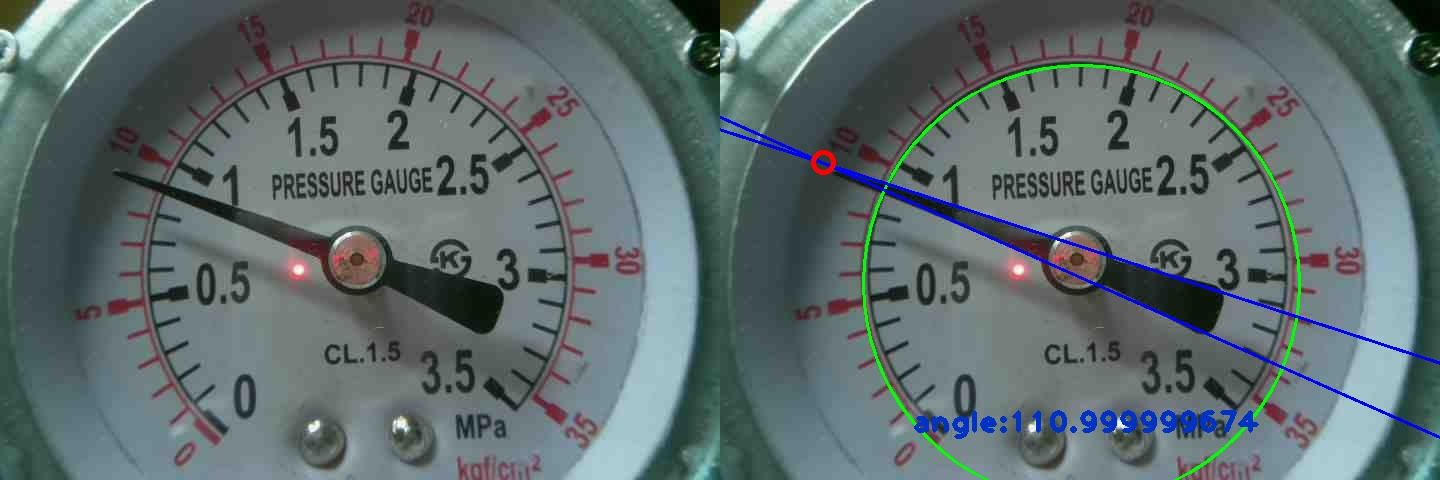
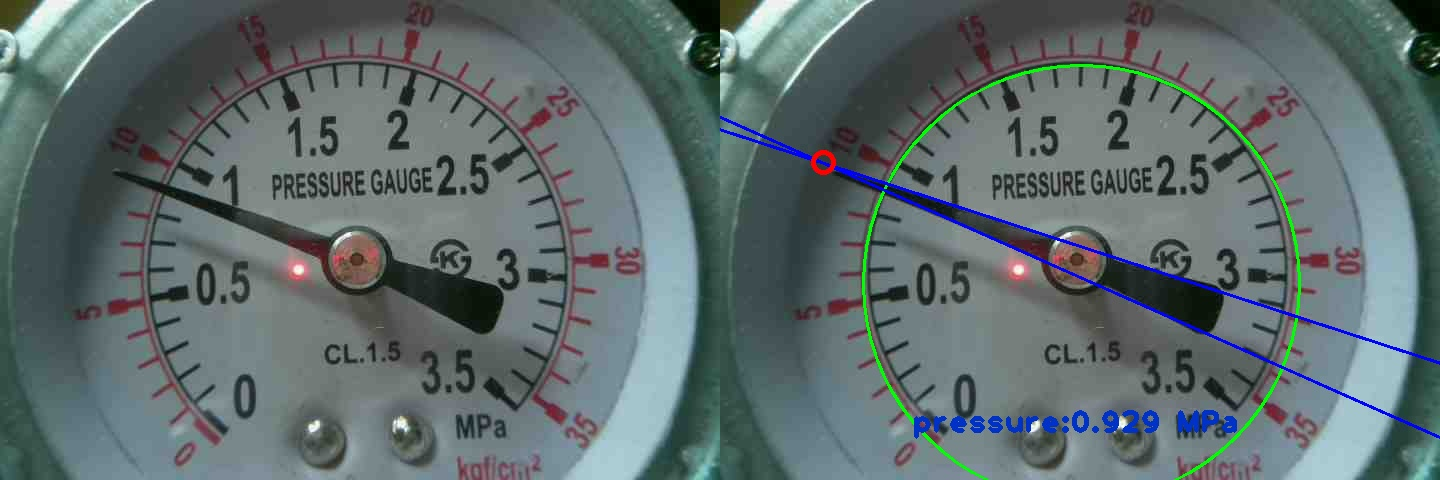
added gauge needle orientation detection

Changed region(s): [[0.625, 0.8438, 0.875, 0.9062]]

diff --git a/gauge_det.py b/gauge_det.py
@@ -1,34 +1,40 @@
 #!/usr/bin/python2.7
 import sys
+import math
 import numpy as np
 import cv2
 import defines as DEF
 
+
 def make_line(p1, p2):
     A = (p1[1] - p2[1])
     B = (p2[0] - p1[0])
-    C = (p1[0]*p2[1] - p2[0]*p1[1])
+    C = (p1[0] * p2[1] - p2[0] * p1[1])
     return A, B, -C
 
+
 def intersection(L1, L2):
-    D  = L1[0] * L2[1] - L1[1] * L2[0]
+    D = L1[0] * L2[1] - L1[1] * L2[0]
     Dx = L1[2] * L2[1] - L1[1] * L2[2]
     Dy = L1[0] * L2[2] - L1[2] * L2[0]
     if D != 0:
         x = Dx / D
         y = Dy / D
-        return x,y
+        return x, y
     else:
         return False
 
+
 class Object:
-    x = 0 #these will hold the coordinates of the object "centers". see moments of inertia
+    x = 0  # these will hold the coordinates of the object "centers". see moments of inertia
     y = 0
+
     def __init__(self, name="null"):
         self.type = "Object"
         self.color = DEF.RED
         self.position = 0
         self.area = 0
+
 
 def main():
     # parameters
@@ -64,8 +70,8 @@ def main():
     if do_threshold:
         # create structuring element that will be used to "dilate" and "erode" image.
         # the element chosen here is a 3px by 3px rectangle
-        prep = cv2.adaptiveThreshold(prep, 255, cv2.ADAPTIVE_THRESH_MEAN_C, cv2.THRESH_BINARY_INV,25,3)
-        #prep = cv2.threshold(prep, 50, 255, cv2.THRESH_BINARY_INV)[1]
+        prep = cv2.adaptiveThreshold(prep, 255, cv2.ADAPTIVE_THRESH_MEAN_C, cv2.THRESH_BINARY_INV, 25, 3)
+        # prep = cv2.threshold(prep, 50, 255, cv2.THRESH_BINARY_INV)[1]
         erodeElement = cv2.getStructuringElement(cv2.MORPH_ELLIPSE, (5, 5))
         # dilate with larger element so make sure object is nicely visible
         dilateElement = cv2.getStructuringElement(cv2.MORPH_ELLIPSE, (4, 4))
@@ -75,8 +81,9 @@ def main():
     # Hough transforms (circles, lines, plines)
     if hough_circle:
         # HoughCircles returns output vector (x,y,radius) inside an one element list so [0] is appended at the end
-        circles = cv2.HoughCircles(gray_im, cv2.HOUGH_GRADIENT, 2, 10, None, param1=50, param2=30, minRadius=height / 10,
-                                   maxRadius=0, )[0]
+        circles = \
+        cv2.HoughCircles(gray_im, cv2.HOUGH_GRADIENT, 2, 10, None, param1=50, param2=30, minRadius=height / 10,
+                         maxRadius=0, )[0]
         if circles is None:
             sys.exit("could not locate the gauge circle")  # if no circles are found terminate the program here
         else:
@@ -94,41 +101,40 @@ def main():
         _, contours, hierarchy = cv2.findContours(copy, cv2.RETR_EXTERNAL, cv2.CHAIN_APPROX_SIMPLE)
         if contours is not None and len(contours) > 0:
             numObjects = len(contours)
-            #print("objects = %d" % numObjects )
-            if numObjects<1024:
-                for i in range (0, len(contours)):
-                  moment = cv2.moments(contours[i])
-                  area = moment['m00']
-                  if area > DEF.AREA:
-                    #print("area = %d" % area)
-                    object = Object()
-                    object.area = area
-                    object.x = int(moment['m10']/area)
-                    object.y = int(moment['m01']/area)
-                    object.position = i
-                    objects.append(object)
-                    #print len(objects)
-                    #print "area is greater than .."
-                    objectFound = True
-                  #else: objectFound = False
+            # print("objects = %d" % numObjects )
+            if numObjects < 1024:
+                for i in range(0, len(contours)):
+                    moment = cv2.moments(contours[i])
+                    area = moment['m00']
+                    if area > DEF.AREA:
+                        # print("area = %d" % area)
+                        object = Object()
+                        object.area = area
+                        object.x = int(moment['m10'] / area)
+                        object.y = int(moment['m01'] / area)
+                        object.position = i
+                        objects.append(object)
+                        # print len(objects)
+                        # print "area is greater than .."
+                        objectFound = True
+                        # else: objectFound = False
 
-        assert(len(objects) <= len(contours)), \
+        assert (len(objects) <= len(contours)), \
             "objects: %d, contours: %d" % (len(objects), len(contours))
-        while (len(objects)>0):
+        while (len(objects) > 0):
             thisObject = objects.pop()
-            #contours[thisObject.position] = cv2.convexHull(contours[thisObject.position], returnPoints = True)
-            cv2.drawContours(blank,contours,thisObject.position, DEF.WHITE, 5, 2)
-
+            # contours[thisObject.position] = cv2.convexHull(contours[thisObject.position], returnPoints = True)
+            cv2.drawContours(blank, contours, thisObject.position, DEF.WHITE, 5, 2)
 
     if hough_line:
         blank = cv2.cvtColor(blank, cv2.COLOR_BGR2GRAY)
         lines = cv2.HoughLines(blank, 1, np.pi / 90, 50)
     if hough_pline:
-        plines = cv2.HoughLinesP(prep, 1, np.pi / 180, 20, None, minLineLength = height/10, maxLineGap = 1)
+        plines = cv2.HoughLinesP(prep, 1, np.pi / 180, 20, None, minLineLength=height / 10, maxLineGap=1)
 
     first = True
     for c in circles[:1]:
-        # green for circles (only draw the 3 strongest)
+        # green for circles (only draw the 1 strongest)
         cv2.circle(canvas, (c[0], c[1]), c[2], (0, 255, 0), line_thickness)
         # cv2.circle()
         # res = cv2.bitwise_and(frame,frame, mask= mask)
@@ -137,73 +143,53 @@ def main():
             circle_x = c[0]
             circle_y = c[1]
             radius = int(c[2])
-    first = True
+
     needle_lines = []
     angles = []
     for line in lines[:2]:
         for (rho, theta) in line:
-            # blue for infinite lines (only draw the 5 strongest)
+            # blue for infinite lines (only draw the 2 strongest)
             x0 = np.cos(theta) * rho
             y0 = np.sin(theta) * rho
             pt1 = (int(x0 + (height + width) * (-np.sin(theta))), int(y0 + (height + width) * np.cos(theta)))
             pt2 = (int(x0 - (height + width) * (-np.sin(theta))), int(y0 - (height + width) * np.cos(theta)))
             cv2.line(canvas, pt1, pt2, (255, 0, 0), line_thickness)
-            needle_lines.append(make_line(pt1,pt2))
+            needle_lines.append(make_line(pt1, pt2))
             angles.append(theta)
-            i += 1
-            if first:
-                first = False
-                line_x = x0
-                line_y = y0
-                #angle = 90 - (theta * 360 / (2 * np.pi))
-                line_mask = np.zeros_like(mask)
-                rect_height = int(radius / 4)
-                rect_width = int(radius * 2)
-                cv2.line(line_mask, pt1, pt2, (255, 255, 255),
-                         rect_height)  # mask width is quarter of circle radius found above
-                mask = cv2.bitwise_and(mask, line_mask)
-                M = cv2.getRotationMatrix2D((x0, y0), (theta * 360 / (2 * np.pi)) - 90, 1)
-    avg_theta = (angles[0] + angles[1])/2
-    angle = ((avg_theta * 360 / (2 * np.pi)))
-    if angle > 360.0:
-        angle -= 360
-    assert(len(needle_lines) >= 2)
+
+    avg_theta = (angles[0] + angles[1]) / 2
+    assert (len(needle_lines) >= 2)
     R = intersection(needle_lines[0], needle_lines[1])
     if R:
         print "Intersection detected:", R
         cv2.circle(canvas, R, 10, DEF.RED, 3)
     else:
         print "No single intersection point detected"
-    prep = cv2.bitwise_and(prep, mask)
-    density = cv2.warpAffine(prep, M, (width, height))
-    density_rect_width = radius * 2
-    if density_rect_width % 2 is not 0:
-        density_rect_width -= 1
-    density_rect_height = rect_height / 3
-    if density_rect_height % 2 is not 0:
-        density_rect_height -= 1
-    density_rect_origin_x = int(line_x - density_rect_width / 2)
-    density_rect_origin_y = int(line_y - density_rect_height / 2)
-    density_rect = np.zeros(shape=(density_rect_height, density_rect_width)).astype(np.uint8)
-    for i, row in enumerate(density_rect):
-        for j, pixel in enumerate(row):
-            density_rect[i, j] = density[density_rect_origin_y + i, density_rect_origin_x + j]
-    left, right = np.hsplit(density_rect, 2)
-    left_density = 0
-    right_density = 0
-    for row in left:
-        for pixel in row:
-            if pixel:
-                left_density += 1
-    for row in right:
-        for pixel in row:
-            if pixel:
-                right_density += 1
-    if left_density > right_density:
-        pass
-        #angle += 180
+    guess1 = [avg_theta, (0, 0)]
+    guess2 = [avg_theta + np.pi, (0, 0)]
+    if guess2[0] > 2 * np.pi:
+        guess2[0] -= 2 * np.pi
+    guess1[1] = (int(circle_x + radius * np.sin(guess1[0])), int(circle_y - radius * np.cos(guess1[0])))
 
-    cv2.putText(canvas, "angle:" + str(angle), (int(height * 0.4), int(width * 0.6)), cv2.FONT_HERSHEY_PLAIN, 2, (200, 50, 0), 3)
+    avg_theta += np.pi
+    guess2[1] = (int(circle_x + radius * np.sin(guess2[0])), int(circle_y - radius * np.cos(guess2[0])))
+
+    dist1 = math.hypot(R[0] - guess1[1][0], R[1] - guess1[1][1])
+    dist2 = math.hypot(R[0] - guess2[1][0], R[1] - guess2[1][1])
+    if dist1 < dist2:
+        angle = (guess1[0] * 360 / (2 * np.pi))
+    else:
+        angle = (guess2[0] * 360 / (2 * np.pi))
+    angle += 180
+    if angle >= 360:
+        angle -= 360
+
+    pressure = np.interp(angle,[DEF.GAUGE_MIN['angle'],DEF.GAUGE_MAX['angle']],[DEF.GAUGE_MIN['pressure'],DEF.GAUGE_MAX['pressure']])
+    print "pressure = ", pressure
+    prep = cv2.bitwise_and(prep, mask)
+
+    cv2.putText(canvas, "pressure:" + str(round(pressure,3)) + " MPa", (int(height * 0.4), int(width * 0.6)), cv2.FONT_HERSHEY_PLAIN,
+                fontScale=(height / 200), color=(200, 50, 0), thickness=3)
 
     if hough_pline:
         for pline in plines[:10]:

diff --git a/defines.py b/defines.py
@@ -6,3 +6,7 @@ RED = (0, 0, 255)
 WHITE = (255, 255, 255)
 YELLOW = (52, 255, 255)
 AREA = 3000
+
+#(pressure in Mpa, angle in degrees)
+GAUGE_MIN = {'pressure':0.0, 'angle':33.0}
+GAUGE_MAX = {'pressure':3.5, 'angle':327.0}
